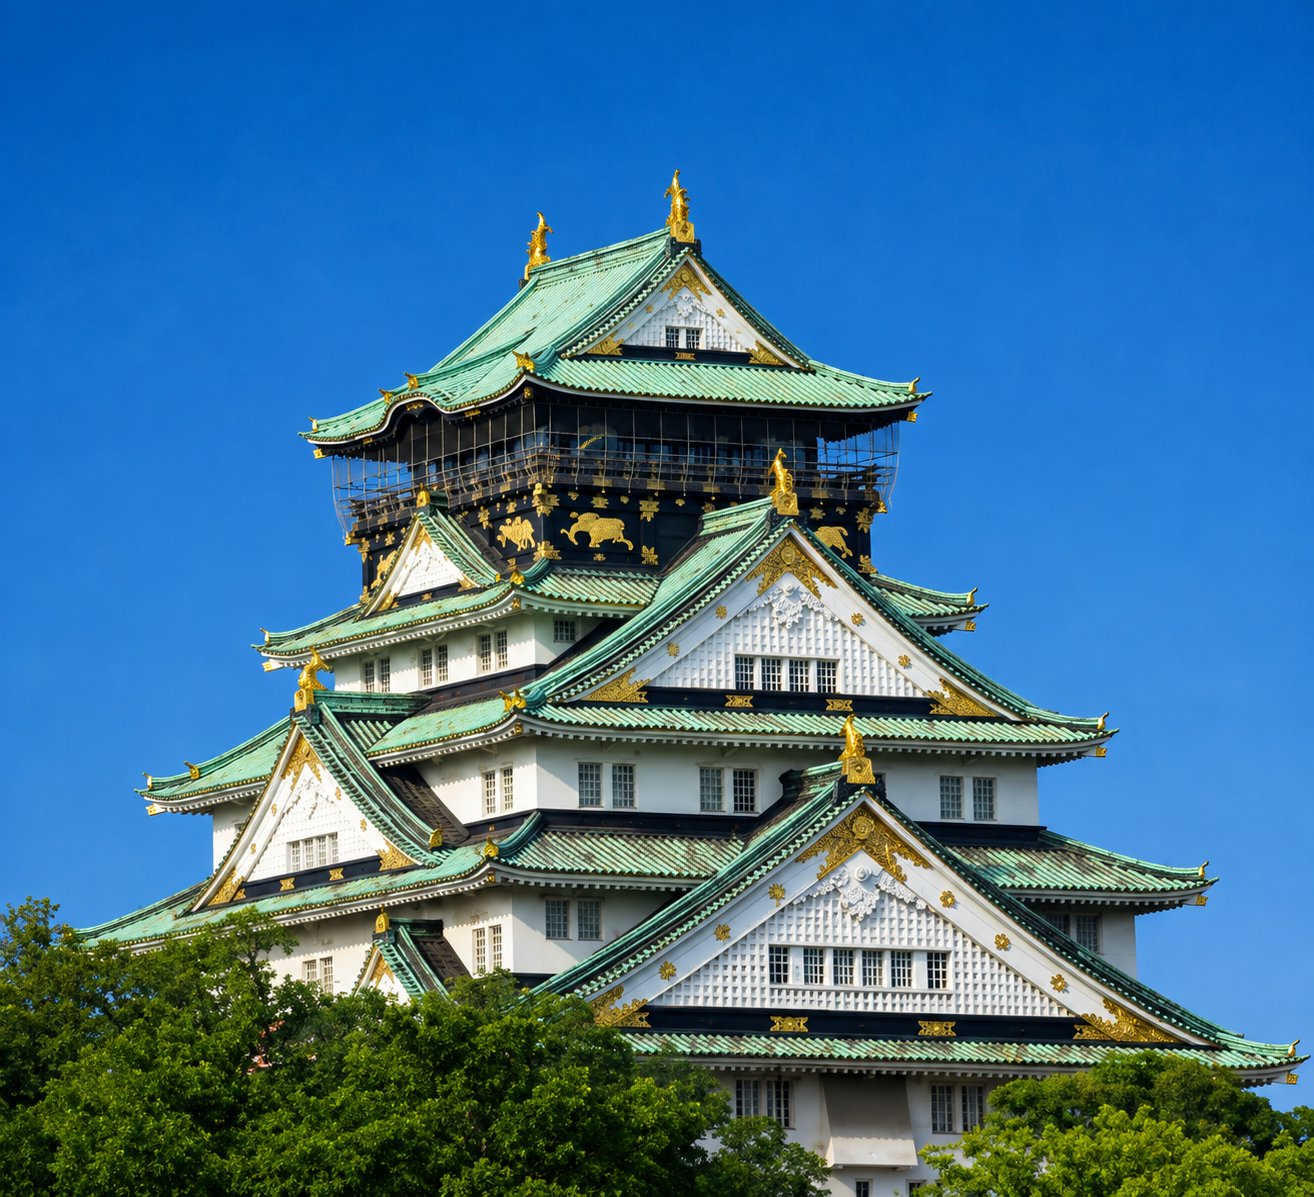
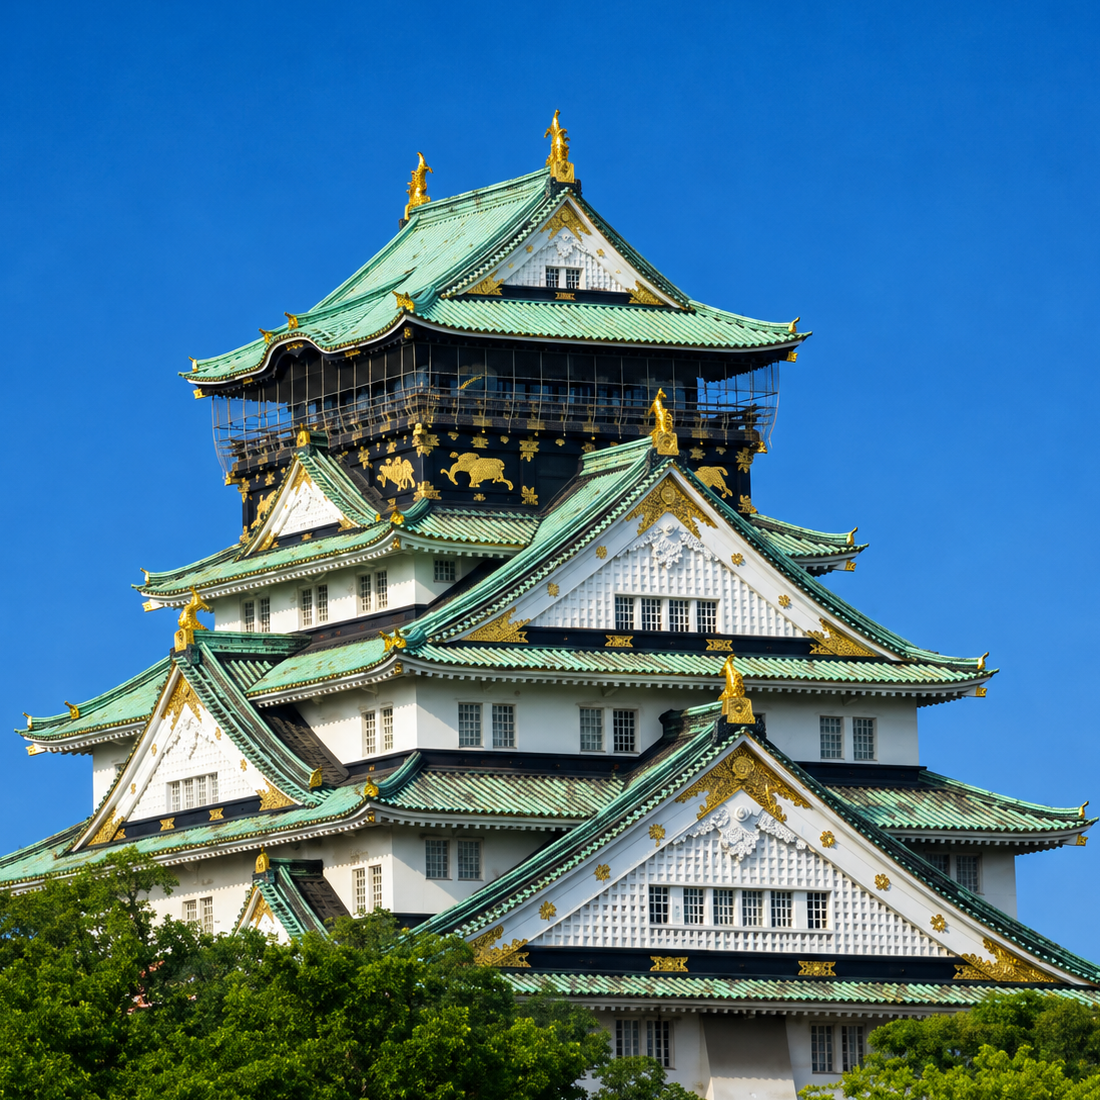
pacote-produtos

diff --git a/app/components/PackageDetailModal.tsx b/app/components/PackageDetailModal.tsx
@@ -41,19 +41,12 @@ const CIDADE_IMAGEM: Record<string, string> = {
   "Fujiyoshida/Fujikawaguchiko": "/images/fuji.JPG",
 };
 
-// Recursos gerais do roteiro, exibidos como resumo logo abaixo do herói —
-// mesmo conteúdo já descrito no Roteiro Digital, só que em formato de
-// destaque rápido (ícone + rótulo curto).
-const RECURSOS_ROTEIRO = [
-  { icon: "🕐", label: "Melhores horários de visita" },
-  { icon: "🚇", label: "Rotas e deslocamento otimizados" },
-  { icon: "🎫", label: "Ingressos e reservas quando necessário" },
-  { icon: "🍽", label: "Sugestões de gastronomia local" },
-];
-
 // O mesmo resumo do Roteiro Digital (ver INCLUSOES_PADRAO → "Roteiro
 // Digital"), reorganizado em grade de ícones — equivalente ao bloco "tudo
-// pensado para você" do roteiro de referência.
+// pensado para você" do roteiro de referência. O item "Deslocamentos" é
+// sobrescrito em tempo de render para Pacotes de Caravana (ônibus privativo
+// do grupo), já que o texto abaixo descreve o modelo do Roteiro
+// Personalizado (linha de trem/metrô) — ver renderTudoPensadoItem.
 const TUDO_PENSADO = [
   { icon: "📋", title: "Roteiro Detalhado", text: "Dia a dia com atrações, ordem de visita e tempo estimado." },
   { icon: "🚇", title: "Deslocamentos", text: "Linha de trem/metrô recomendada e tempo de trajeto entre pontos." },
@@ -61,6 +54,15 @@ const TUDO_PENSADO = [
   { icon: "🍽", title: "Gastronomia", text: "Sugestões de refeições próximas a cada parada do dia." },
   { icon: "💡", title: "Dicas Locais", text: "Orientações práticas para aproveitar melhor cada atração." },
   { icon: "🕐", title: "Guia de Horários", text: "Melhor horário de visita, evitando picos de fila e lotação." },
+];
+
+// O que fica de fora do pacote — mesma informação já confirmada no FAQ
+// padrão ("Refeições?"), só reorganizada em lista curta pro quadro
+// Incluso/Não incluso.
+const NAO_INCLUSO = [
+  "Almoços e jantares, salvo indicação no roteiro",
+  "Despesas pessoais e compras",
+  "Passeios e ingressos fora do roteiro previsto",
 ];
 
 // Heurística leve para gerar as etiquetas (ícone + rótulo) de cada dia do
@@ -283,15 +285,15 @@ const REFEICOES_INCLUSAS: Record<string, { cafe: number; almoco: number; jantar:
 // "Cidades" — Tóquio alterna entre duas fotos (Sensoji/Kaminarimon e
 // Skytree) pra não repetir a mesma imagem quando aparece mais de uma vez
 // no mesmo roteiro (ex.: Tóquio no início e no fim do 7d).
-type CidadeIcone = { src: string; scale?: number; position?: string };
-
-const CIDADE_ICONE_TOKYO: CidadeIcone[] = [
-  { src: "/images/icon-tokyo1.png", scale: 1.5, position: "50% 40%" },
-  { src: "/images/icon-tokyo2.png" },
-];
-const CIDADE_ICONE: Record<string, CidadeIcone> = {
-  Kyoto: { src: "/images/icon-kyoto.jpg" },
-  Osaka: { src: "/images/icon-osaka.png", scale: 1.3 },
+// Os arquivos de origem já vêm recortados (crop) bem próximos da atração —
+// evitar zoom via CSS (transform: scale) aqui, porque o Next/Image já serve
+// uma versão pequena (do tamanho da bolinha) e escalar isso por CSS deixa a
+// imagem borrada. Qualquer ajuste de enquadramento deve ser feito recortando
+// o arquivo de origem de novo, não com scale/object-position.
+const CIDADE_ICONE_TOKYO = ["/images/icon-tokyo1.png", "/images/icon-tokyo2.png"];
+const CIDADE_ICONE: Record<string, string> = {
+  Kyoto: "/images/icon-kyoto.jpg",
+  Osaka: "/images/icon-osaka.png",
 };
 
 function ItinerarioFlow({ stops }: { stops: ItinerarioStop[] }) {
@@ -307,7 +309,7 @@ function ItinerarioFlow({ stops }: { stops: ItinerarioStop[] }) {
     // rótulo era mais largo que o círculo (nomes de cidade compostos).
     <div className="flex flex-wrap items-start justify-center gap-y-8">
       {stops.map((stop, i) => {
-        const icone =
+        const iconSrc =
           stop.city === "Tokyo"
             ? CIDADE_ICONE_TOKYO[tokyoCount++ % CIDADE_ICONE_TOKYO.length]
             : CIDADE_ICONE[stop.city];
@@ -323,17 +325,13 @@ function ItinerarioFlow({ stops }: { stops: ItinerarioStop[] }) {
                 backgroundColor: ITINERARIO_CITY_BORDER[stop.city] ?? "rgba(255,255,255,0.3)",
               }}
             >
-              {icone && (
+              {iconSrc && (
                 <Image
-                  src={icone.src}
+                  src={iconSrc}
                   alt={stop.city}
                   fill
                   sizes={`${circleSize}px`}
                   className="object-cover"
-                  style={{
-                    transform: icone.scale ? `scale(${icone.scale})` : undefined,
-                    objectPosition: icone.position,
-                  }}
                 />
               )}
             </div>
@@ -385,13 +383,13 @@ const INCLUSOES_PADRAO = [
   },
   {
     title: "Hotel",
-    text: "Hospedagem selecionada, em localizações estratégicas para o roteiro.",
+    text: "Hotéis de 3 a 4 estrelas, com café da manhã e localização estratégica para o roteiro. Quartos individuais ou duplos.",
     detalhe:
       "Acomodação de 3 a 4 estrelas, selecionada por localização e conforto, sempre com curadoria Ajisai (exemplo de padrão: Daiwa Roynet). Hotéis 4 estrelas têm padrão internacional de conforto — quartos bem equipados, café da manhã incluso, localização estratégica e recepção 24h — sem as amenidades adicionais de um 5 estrelas. Preço padrão considera quarto individual; quarto duplo (compartilhado) disponível mediante consulta.",
   },
   {
     title: "Passagem Aérea",
-    text: "Ida e volta, com as melhores opções de conexão para o Japão.",
+    text: "Ida e volta em classe econômica, com bagagem despachada de até 23kg incluída.",
     detalhe:
       "Bilhete aéreo de ida e volta ao Japão, com a Ajisai buscando as melhores opções de conexão disponíveis para as datas do roteiro. Já inclui 1 bagagem despachada de até 23kg e 1 bagagem de mão por pessoa, conforme a companhia aérea selecionada.\n\nDiferenciais Ajisai para quem compra a passagem com a gente:\n\nConcierge no Aeroporto de Guarulhos — equipe especializada apoia todos os passageiros no balcão de check-in, esclarece dúvidas, resolve reserva de assento e intermedia com a companhia aérea. Tem acesso direto à gerência das companhias no aeroporto — fundamental em cancelamento, remarcação e direitos do passageiro (alimentação em atrasos acima de 3h, hospedagem acima de 8h). Nas caravanas, pode contar ainda com representante da própria Ajisai no embarque.\n\nProtocolo pré-embarque (Visit Japan Web) — um membro da equipe Ajisai preenche o VJW com os dados do passageiro, cria e cadastra a conta e envia pronta pra você, substituindo o papelado na chegada ao Japão. Inclui também uma sessão dedicada ao aéreo, com explicação do itinerário e esclarecimento de dúvidas antes do embarque.\n\nMonitoramento de viagem — central de WhatsApp com equipe emergencial Ajisai, funcionando quase 24 horas por dia, cobrindo problemas de conexão, gestão de reserva antes da viagem e imprevistos durante a viagem. Atendimento humano, com apoio de tradutor por telefone quando necessário, e prioridade para menores desacompanhados e passageiros acima de 65 anos.\n\nResponsabilidade da Agência — passagem emitida pela Ajisai tem responsabilidade solidária da agência e negociação direta com as companhias aéreas, muito além do que dá pra resolver sozinho numa reserva comprada por conta própria — mais proteção e prioridade, mesmo pelo mesmo preço.",
   },
@@ -573,6 +571,23 @@ function IconChevron({ className }: { className?: string }) {
   );
 }
 
+function IconTicket({ className }: { className?: string }) {
+  return (
+    <svg
+      viewBox="0 0 24 24"
+      fill="none"
+      stroke="currentColor"
+      strokeWidth="1.75"
+      strokeLinecap="round"
+      strokeLinejoin="round"
+      className={className}
+    >
+      <path d="M3 8.5a2 2 0 0 1 2-2h14a2 2 0 0 1 2 2v1.5a2 2 0 0 0 0 4v1.5a2 2 0 0 1-2 2H5a2 2 0 0 1-2-2V14a2 2 0 0 0 0-4Z" />
+      <line x1="10" y1="6.5" x2="10" y2="17.5" strokeDasharray="2.2 2.2" />
+    </svg>
+  );
+}
+
 function IconZoom({ className }: { className?: string }) {
   return (
     <svg
@@ -749,7 +764,46 @@ export function PackageDetailModal({
             </div>
           </div>
 
-          <p className="mt-5 text-sm font-light leading-6 text-white/65">{descricao}</p>
+          {variantes.length > 1 && (
+            <div className="mt-6 rounded-2xl border border-white/10 bg-white/[0.03] p-4">
+              <p className="mb-3 text-center text-xs font-semibold uppercase tracking-[0.2em] text-white">
+                Escolha sua experiência
+              </p>
+              <div className="flex flex-wrap justify-center gap-2.5">
+                {variantes.map((v) => {
+                  const ativo = v.id === selecionada;
+                  return (
+                    <button
+                      key={v.id}
+                      type="button"
+                      onClick={() => selecionarVariante(v.id)}
+                      className={`rounded-full border px-5 py-2 text-sm font-semibold uppercase tracking-[0.08em] transition-all duration-200 ease-out hover:-translate-y-0.5 active:scale-95 ${
+                        ativo
+                          ? "border-transparent text-white shadow-[0_8px_20px_rgba(0,0,0,0.35)]"
+                          : "border-white/20 text-white/60 hover:border-white/50 hover:text-white"
+                      }`}
+                      style={ativo ? { backgroundColor: "#2f80c9" } : undefined}
+                    >
+                      {v.label}
+                    </button>
+                  );
+                })}
+              </div>
+              {variante && (
+                <div className="mt-4 text-center">
+                  <p className="text-[11px] font-medium uppercase tracking-[0.15em] text-white/45">
+                    {variante.datas}
+                  </p>
+                  <PrecoPacote
+                    variante={variante}
+                    precoClassName={`${display.className} mt-1 text-2xl font-semibold text-white`}
+                  />
+                </div>
+              )}
+            </div>
+          )}
+
+          <p className="mt-6 text-sm font-light leading-6 text-white/65">{descricao}</p>
 
           <ul className="mt-5 space-y-2.5">
             {destaques.map((item) => (
@@ -761,18 +815,6 @@ export function PackageDetailModal({
               </li>
             ))}
           </ul>
-
-          <div className="mt-6 grid grid-cols-2 gap-3 sm:grid-cols-4">
-            {RECURSOS_ROTEIRO.map((r) => (
-              <div
-                key={r.label}
-                className="rounded-xl border border-white/10 bg-white/[0.03] p-3 text-center transition duration-300 hover:-translate-y-0.5 hover:border-[#6ec3d9]/40 hover:bg-white/[0.06] hover:shadow-[0_10px_24px_rgba(0,0,0,0.3)]"
-              >
-                <p className="text-lg">{r.icon}</p>
-                <p className="mt-1.5 text-[11px] font-medium leading-4 text-white/70">{r.label}</p>
-              </div>
-            ))}
-          </div>
 
           <div className="mt-8 border-t border-white/10 pt-6">
             <h3 className={`${display.className} text-lg font-medium text-white`}>Itinerário</h3>
@@ -887,16 +929,25 @@ export function PackageDetailModal({
               Tudo pensado para você
             </p>
             <div className="grid grid-cols-2 gap-3 sm:grid-cols-3">
-              {TUDO_PENSADO.map((item) => (
-                <div
-                  key={item.title}
-                  className="rounded-xl border border-white/10 bg-white/[0.03] p-3.5 text-center"
-                >
-                  <p className="text-xl">{item.icon}</p>
-                  <p className="mt-1.5 text-xs font-medium text-white">{item.title}</p>
-                  <p className="mt-1 text-[11px] font-light leading-4 text-white/45">{item.text}</p>
-                </div>
-              ))}
+              {TUDO_PENSADO.map((item) => {
+                const isDeslocamento = item.title === "Deslocamentos";
+                const overrideCaravana = isDeslocamento && divisao === "Pacotes de Caravana";
+                const icon = overrideCaravana ? "🚌" : item.icon;
+                const title = overrideCaravana ? "Transporte Privativo" : item.title;
+                const text = overrideCaravana
+                  ? "Deslocamentos planejados em veículo exclusivo para o grupo, nos dias previstos no programa."
+                  : item.text;
+                return (
+                  <div
+                    key={item.title}
+                    className="rounded-xl border border-white/10 bg-white/[0.03] p-3.5 text-center"
+                  >
+                    <p className="text-xl">{icon}</p>
+                    <p className="mt-1.5 text-xs font-medium text-white">{title}</p>
+                    <p className="mt-1 text-[11px] font-light leading-4 text-white/45">{text}</p>
+                  </div>
+                );
+              })}
             </div>
           </div>
 
@@ -904,28 +955,50 @@ export function PackageDetailModal({
             <h3 className={`${display.className} text-lg font-medium text-white`}>
               O que está incluso
             </h3>
-            <div className="mt-4 grid grid-cols-1 gap-3 sm:grid-cols-2 md:grid-cols-3">
-              {inclusoes.map((item) => (
-                <button
-                  key={item.title}
-                  type="button"
-                  onClick={() => setInclusaoAberta(item)}
-                  className="rounded-xl border border-white/10 bg-white/[0.03] p-3.5 text-left transition hover:border-white/25 hover:bg-white/[0.06]"
-                >
-                  <p className="flex items-center gap-2 text-sm font-medium text-white">
-                    {item.title}
-                    {item.opcional && (
-                      <span className="rounded-full bg-[#6ec3d9]/15 px-2 py-0.5 text-[9px] font-semibold uppercase tracking-[0.08em] text-[#6ec3d9]">
-                        Opcional
+            <div className="mt-4 grid grid-cols-1 gap-6 sm:grid-cols-2">
+              <div>
+                <p className="mb-3 text-[11px] font-semibold uppercase tracking-[0.2em] text-emerald-400">
+                  Incluso
+                </p>
+                <div className="space-y-2">
+                  {inclusoes.map((item) => (
+                    <button
+                      key={item.title}
+                      type="button"
+                      onClick={() => setInclusaoAberta(item)}
+                      className="flex w-full items-center justify-between gap-2 rounded-lg border border-white/10 bg-white/[0.03] px-3.5 py-2.5 text-left transition hover:border-white/25 hover:bg-white/[0.06]"
+                    >
+                      <span className="flex min-w-0 items-center gap-2 text-sm text-white">
+                        <IconCheck className="h-3.5 w-3.5 shrink-0 text-emerald-400" />
+                        <span className="truncate">{item.title}</span>
+                        {item.opcional && (
+                          <span className="shrink-0 rounded-full bg-[#6ec3d9]/15 px-2 py-0.5 text-[9px] font-semibold uppercase tracking-[0.08em] text-[#6ec3d9]">
+                            Opcional
+                          </span>
+                        )}
                       </span>
-                    )}
-                  </p>
-                  <p className="mt-1 text-xs font-light leading-5 text-white/50">{item.text}</p>
-                  <p className="mt-2 text-[10px] uppercase tracking-[0.15em] text-[#6ec3d9]">
-                    Saiba mais →
-                  </p>
-                </button>
-              ))}
+                      <IconChevron className="h-3.5 w-3.5 shrink-0 -rotate-90 text-white/30" />
+                    </button>
+                  ))}
+                </div>
+              </div>
+
+              <div>
+                <p className="mb-3 text-[11px] font-semibold uppercase tracking-[0.2em] text-white/35">
+                  Não incluso
+                </p>
+                <div className="space-y-2">
+                  {NAO_INCLUSO.map((text) => (
+                    <div
+                      key={text}
+                      className="flex items-center gap-2 rounded-lg border border-white/10 bg-white/[0.02] px-3.5 py-2.5 text-sm text-white/45"
+                    >
+                      <IconX className="h-3 w-3 shrink-0 text-white/25" />
+                      {text}
+                    </div>
+                  ))}
+                </div>
+              </div>
             </div>
 
             <div className="mt-4 rounded-xl border border-amber-400/20 bg-amber-400/[0.05] p-3.5">
@@ -1060,11 +1133,11 @@ export function PackageDetailModal({
           >
             {adicionado ? (
               <>
-                <IconCheck className="h-4 w-4" /> Adicionado ao carrinho
+                <IconCheck className="h-4 w-4" /> Reserva adicionada
               </>
             ) : (
               <>
-                <IconCart className="h-4 w-4" /> Adicionar ao carrinho
+                <IconTicket className="h-4 w-4" /> Reservar minha vaga
               </>
             )}
           </button>
